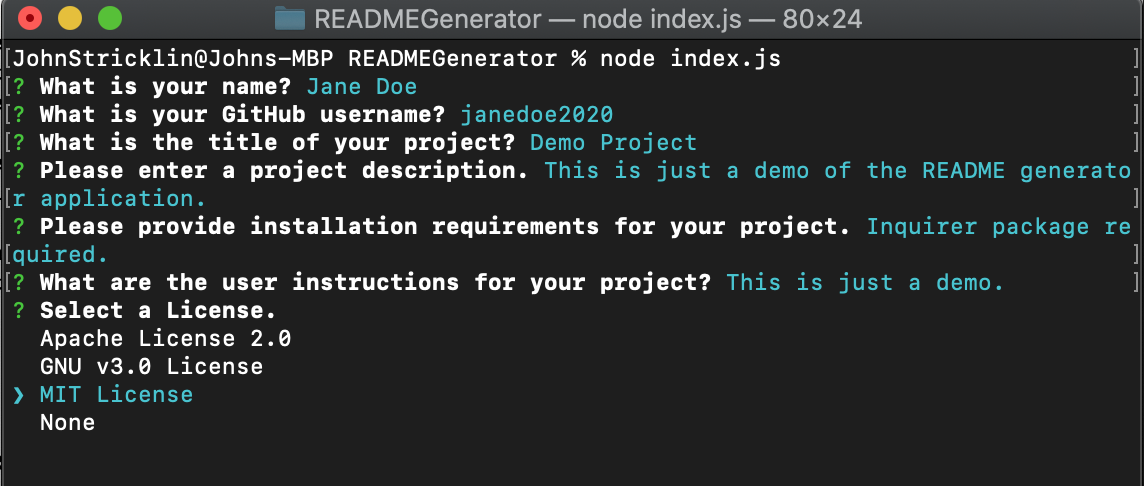
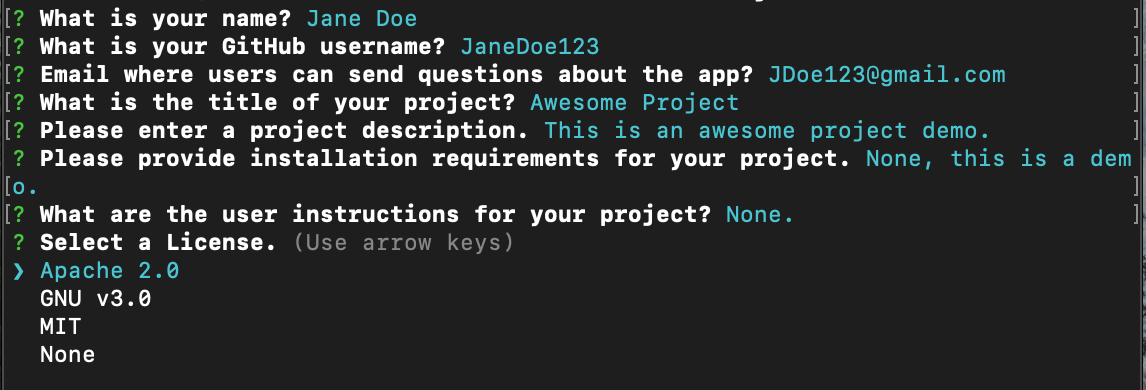
edit demo pictures, README, generatedREADME

Changed region(s): [[0.0, 0.0, 1.0, 1.0]]

diff --git a/generatedREADME.md b/generatedREADME.md
@@ -1,12 +1,12 @@
 
-  # Demo Project
+  # Awesome Project
   By Jane Doe
-  GitHub username: janedoe2020
+  GitHub username: JaneDoe123
 
   ![License](https://img.shields.io/badge/License-MIT-green.svg)
 
   ## Description
-  This is just a demo of the README generator application.
+  This is an awesome project demo.
 
   ## Table of Contents
   * [Installation](#installation)
@@ -17,22 +17,22 @@
   * [Questions](#questions)
   
   ## Installation <a name="installation"></a>
-  Inquirer package required.
+  None, this is a demo.
 
   ## Usage <a name="usage"></a>
-  This is just a demo.
+  None.
 
   ## License <a name="license"></a>
-  This application is licensed under the MIT License.
+  This application is licensed under the MIT.
 
   ## Contributing <a name="contribution"></a>
-  Be nice.
+  Feel free to email me to contribute to this repo.
   
   ## Tests <a name="tests"></a>
-  None.
+  None at this time.
 
   ## Questions <a name="questions"></a>
   For questions about this application, you can contact me at:
-  * Email: undefined
-  * GitHub: https://github.com/janedoe2020
+  * Email: JDoe123@gmail.com
+  * GitHub: https://github.com/JaneDoe123
   
